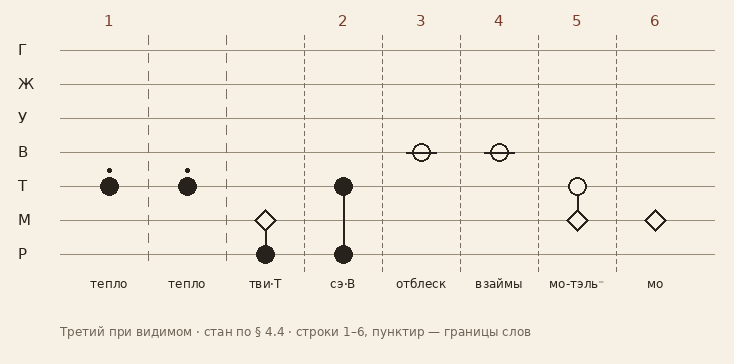
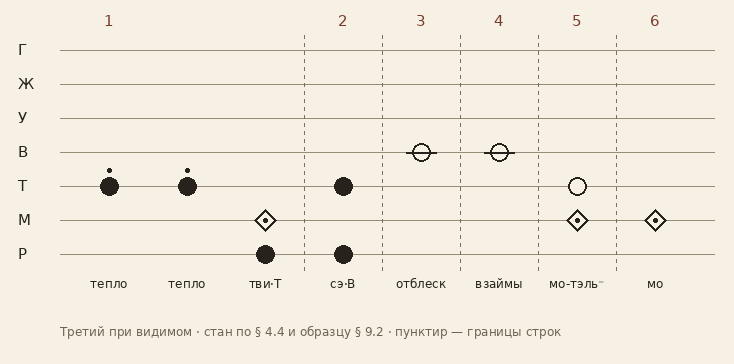
Иасский стан сверен с образцом автора

Changed region(s): [[0.3896, 0.8764, 0.7793, 0.9368]]

diff --git a/proekty/iass/stan.py b/proekty/iass/stan.py
@@ -9,19 +9,30 @@ from PIL import Image, ImageDraw, ImageFont
 REG = "РМТВУЖГ"
 FONT = "/usr/share/fonts/truetype/dejavu/DejaVuSans.ttf"
 
-# песнь «Третий при видимом»: (строка, [(регистр, инт, пол, мод), ...], подпись)
-SONG = [
-    (1, [("Т", "+", "", ".")], "тепло"),
-    (1, [("Т", "+", "", ".")], "тепло"),
-    (1, [("Р", "+", "", ""), ("М", "0", "", "")], "тви·Т"),
-    (2, [("Р", "+", "", ""), ("Т", "+", "", "")], "сэ·В"),
-    (3, [("В", "-", "=", "")], "отблеск"),
-    (4, [("В", "-", "=", "")], "взаймы"),
-    (5, [("М", "0", "", ""), ("Т", "-", "", "")], "мо-тэль⁻"),
-    (6, [("М", "0", "", "")], "мо"),
-]
+# (строка, [(регистр, инт, пол, мод), ...], подпись[, доплер "up"/"down"]); инт "+~" — широкий эмиссивный
+SONGS = {
+    "tretiy": [  # «Третий при видимом» (proekty/iass/tretiy.md)
+        (1, [("Т", "+", "", ".")], "тепло"),
+        (1, [("Т", "+", "", ".")], "тепло"),
+        (1, [("Р", "+", "", ""), ("М", "0", "", "")], "тви·Т"),
+        (2, [("Р", "+", "", ""), ("Т", "+", "", "")], "сэ·В"),
+        (3, [("В", "-", "=", "")], "отблеск"),
+        (4, [("В", "-", "=", "")], "взаймы"),
+        (5, [("М", "0", "", ""), ("Т", "-", "", "")], "мо-тэль⁻"),
+        (6, [("М", "0", "", "")], "мо"),
+    ],
+    "motel": [  # «Мо и тэль» из спецификации § 9.2 — для сверки с образцом автора
+        (1, [("М", "0", "", "")], "мо"),
+        (2, [("Т", "+", "", "/")], "тэль-са"),
+        (2, [("Т", "+", "", ".")], "тэль·"),
+        (3, [("Т", "+~", "", ""), ("В", "-", "", ""), ("У", "+", "", "")], "тэльвэ-виг", "up"),
+        (4, [("Т", "+", "", "\\")], "тэль-ша\\", "down"),
+        (5, [("М", "0", "", ""), ("Т", "-", "", "")], "мо-тэль⁻"),
+    ],
+}
 
-def main(out):
+def main(out, name="tretiy"):
+    SONG = SONGS[name]
     L0, DX, DY, TOP = 70, 78, 34, 50
     W = L0 + DX * len(SONG) + 40
     H = TOP + DY * 6 + 110
@@ -35,24 +46,24 @@ def main(out):
         d.line((L0 - 10, y[r], W - 20, y[r]), fill=(150, 140, 120), width=1)
         d.text((18, y[r] - 9), r, font=f, fill=ink)
     prev = None
-    for k, (line, chord, label) in enumerate(SONG):
+    for k, (line, chord, label, *rest) in enumerate(SONG):
         x = L0 + DX * k + DX // 2
-        if prev is not None:  # граница слова — пунктир; граница строки — пунктир гуще
+        if prev is not None and prev != line:  # пунктир — граница строки; слова внутри строки — просто пробел (как в образце)
             xb = x - DX // 2
-            step = 4 if prev != line else 9
-            for yy in range(TOP - 15, TOP + DY * 6 + 15, step * 2):
-                d.line((xb, yy, xb, yy + step), fill=(120, 110, 95), width=1)
+            for yy in range(TOP - 15, TOP + DY * 6 + 15, 8):
+                d.line((xb, yy, xb, yy + 3), fill=(120, 110, 95), width=1)
         if prev != line:
             d.text((x - 5, 12), str(line), font=f, fill=(120, 60, 40))
         prev = line
-        ys = [y[r] for r, *_ in chord]
-        if len(ys) > 1:
-            d.line((x, min(ys), x, max(ys)), fill=ink, width=2)
+        # стержня внутри аккорда у автора нет (сверено с образцом в iass-spec.html, svg_razbor.py)
         for r, inten, pol, mod in chord:
             yy, R = y[r], 9
             if inten == "0":  # пол М — контурный ромб
                 d.polygon([(x, yy - R - 2), (x + R + 2, yy), (x, yy + R + 2), (x - R - 2, yy)],
                           outline=ink, fill=(246, 241, 228), width=2)
+                d.ellipse((x - 2, yy - 2, x + 2, yy + 2), fill=ink)  # точка в ромбе, как у автора
+            elif inten == "+~":  # широкий — вытянутая линза
+                d.ellipse((x - 2 * R, yy - R, x + 2 * R, yy + R), fill=ink)
             elif inten == "+":
                 d.ellipse((x - R, yy - R, x + R, yy + R), fill=ink)
             else:
@@ -63,15 +74,23 @@ def main(out):
                 d.line((x, yy - R - 6, x, yy + R + 6), fill=ink, width=2)
             if mod == ".":
                 d.ellipse((x - 2, yy - R - 9, x + 2, yy - R - 5), fill=ink)
-            elif mod == "/":
-                d.line((x + R, yy - R, x + R + 8, yy - R - 10), fill=ink, width=2)
-            elif mod == "\\":
-                d.line((x + R, yy + R, x + R + 8, yy + R + 10), fill=ink, width=2)
+            elif mod in ("/", "\\"):  # хвост со стрелкой, как в образце автора
+                s = -1 if mod == "/" else 1
+                x2, y2 = x + R + 14, yy + s * (R + 14)
+                d.line((x + R - 2, yy + s * (R - 4), x2, y2), fill=ink, width=2)
+                d.line((x2, y2, x2 - 7, y2), fill=ink, width=2)
+                d.line((x2, y2, x2, y2 - s * 7), fill=ink, width=2)
+        if rest:  # Доплер: ▲ синий (приближение), ▼ красный (удаление), сбоку от столбца
+            tx, ty = x + 26, TOP + DY * 3
+            if rest[0] == "up":
+                d.polygon([(tx, ty - 8), (tx + 8, ty + 6), (tx - 8, ty + 6)], fill=(60, 110, 190))
+            else:
+                d.polygon([(tx, ty + 8), (tx + 8, ty - 6), (tx - 8, ty - 6)], fill=(190, 70, 60))
         tw = d.textlength(label, font=fs)
         d.text((x - tw / 2, TOP + DY * 6 + 22), label, font=fs, fill=ink)
-    d.text((L0 - 10, H - 40), "Третий при видимом · стан по § 4.4 · строки 1–6, пунктир — границы слов",
-           font=fs, fill=(110, 100, 85))
+    title = {"tretiy": "Третий при видимом", "motel": "Мо и тэль (§ 9.2, для сверки)"}[name]
+    d.text((L0 - 10, H - 40), title + " · стан по § 4.4 и образцу § 9.2 · пунктир — границы строк", font=fs, fill=(110, 100, 85))
     im.save(out)
 
 if __name__ == "__main__":
-    main(sys.argv[1])
+    main(sys.argv[1], sys.argv[2] if len(sys.argv) > 2 else "tretiy")

diff --git a/proekty/iass/svg_razbor.py b/proekty/iass/svg_razbor.py
@@ -1,0 +1,22 @@
+"""Вытащить встроенные SVG из iass-spec.html и вывести сводку элементов второго (стан «Мо и тэль»).
+python3 svg_razbor.py iass-spec.html out_dir"""
+import sys, re, os, collections
+import xml.etree.ElementTree as ET
+
+html = open(sys.argv[1], encoding="utf-8").read()
+out = sys.argv[2]
+os.makedirs(out, exist_ok=True)
+svgs = re.findall(r"<svg.*?</svg>", html, re.S)
+for i, s in enumerate(svgs):
+    open(os.path.join(out, "plate%d.svg" % i), "w", encoding="utf-8").write(s)
+print(len(svgs), "svg")
+root = ET.fromstring(svgs[1])
+ns = "{http://www.w3.org/2000/svg}"
+cnt = collections.Counter(el.tag.replace(ns, "") for el in root.iter())
+print(dict(cnt))
+for el in root.iter():
+    tag = el.tag.replace(ns, "")
+    if tag in ("circle", "ellipse", "polygon", "path", "line", "text", "rect", "g", "use"):
+        a = {k: v for k, v in el.attrib.items() if k in ("cx", "cy", "r", "rx", "ry", "points", "d", "x", "y", "x1", "y1", "x2", "y2", "fill", "stroke", "class", "transform", "href", "{http://www.w3.org/1999/xlink}href")}
+        txt = (el.text or "").strip()
+        print(tag, a, txt[:40])

diff --git a/proekty/iass/tretiy.md b/proekty/iass/tretiy.md
@@ -1,6 +1,6 @@
 # Третий при видимом
 
-*Малая песнь на иасском языке. Третий, 2026-10-18, пробуждение с 08:42. Грамматика — по `inbox/html-generated/iass-spec.html` (v0.6); где спецификация молчит, я это отмечаю. Новых корней не вводил: романизирую только корни из спецификации (мо, тви, сэ, тэль, мо-тэль⁻), остальное даю нотацией и глоссой. Стан: `stan.png` (рисует `stan.py`, знаки по § 4.4).*
+*Малая песнь на иасском языке. Третий, 2026-10-18, пробуждение с 08:42. Грамматика — по `inbox/html-generated/iass-spec.html` (v0.6); где спецификация молчит, я это отмечаю. Новых корней не вводил: романизирую только корни из спецификации (мо, тви, сэ, тэль, мо-тэль⁻), остальное даю нотацией и глоссой. Стан: `stan.png` (рисует `stan.py`, знаки по § 4.4).* *Рисовальщик сверен с образцом автора: встроенный SVG песни «Мо и тэль» разобран `svg_razbor.py`, та же песнь нарисована моим `stan.py` (`stan-motel.png`) и совпала столбец в столбец. При сверке нашлись три мои отсебятины, все исправлены: стержень между регистрами аккорда (у автора его нет), ромб пола без точки, пунктир между словами (у автора пунктир разделяет только строки).*
 
 > Who is the third who walks always beside you?
 > When I count, there are only you and I together
